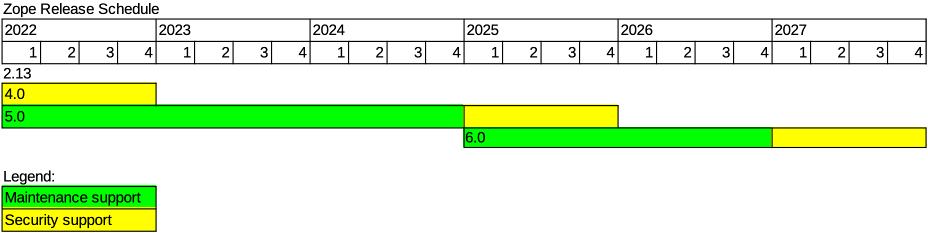
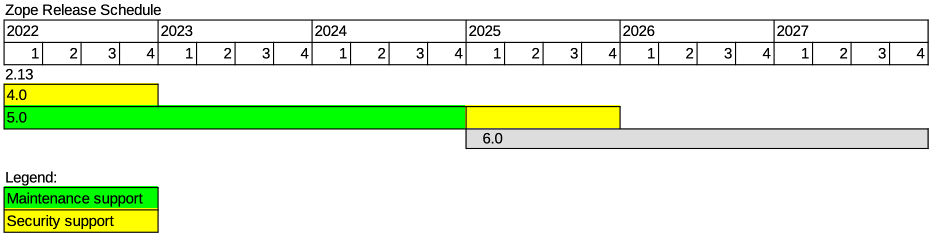
- clarify Zope 5 support timeframes

Changed region(s): [[0.0, 0.0, 1.0, 0.5408], [0.5, 0.5408, 1.0, 0.6609], [0.0, 0.721, 0.1875, 1.0]]

diff --git a/docs/releases.rst b/docs/releases.rst
@@ -1,7 +1,7 @@
 Zope release schedule
 =====================
 
-The Zope development and support roadmap. **Last updated: September 2023**
+The Zope development and support roadmap. **Last updated: January 2024**
 
 If you use Plone, please visit the `Plone release schedule
 <https://plone.org/download/release-schedule>`_ for all Plone-specific details.
@@ -14,8 +14,17 @@ Zope currently has two release managers, Michael Howitz and Jens Vagelpohl.
    :local:
    :depth: 1
 
+
 Support schedule
 ----------------
+
+.. note::
+
+    The end dates for Zope 5 maintenance and security support represent the
+    **earliest dates** for ending support **after Zope 6 is released**. There
+    are no firm plans for a Zope 6 release at this time, which means Zope 5
+    will be supported longer than stated here.
+
 
 .. image:: /_static/releases.png
 
@@ -31,8 +40,7 @@ Support schedule
 |5.0   |5.9    |3.7-3.12     |maintenance|2020-10-08|2024-12-31  |2025-12-31  |
 |      |       |[1]_ [2]_    |           |          |[3]_        |[3]_        |
 +------+-------+-------------+-----------+----------+------------+------------+
-|6.0   |\-     |TBD          |unreleased |TBD [4]_  |2026-12-31  |2027-12-31  |
-|      |       |             |           |          |[5]_        |[5]_        |
+|6.0   |\-     |TBD          |unreleased |TBD [4]_  |TBD [4]_    | TBD [4]_   |
 +------+-------+-------------+-----------+----------+------------+------------+
 
 .. [1] Python 3.10 support added with release 5.4.
@@ -41,16 +49,16 @@ Support schedule
 
 .. [2] Python 3.6 support removed with release 5.8.
 
-.. [3] Tentative: Final support deadlines for the Zope 5 series will be set
-       when Zope 6 is released. Zope 5 will enjoy full maintenance support at
-       least until Zope 6 is released and Security support for at least one year
-       after that.
+.. [3] Tentative **minimum** support duration and subject to change/extension:
+       Final support deadlines for the Zope 5 series will be set when Zope 6 is
+       released. Zope 5 will enjoy full maintenance support at least until
+       Zope 6 is released and Security support for at least one year after
+       that.
 
-.. [4] There is no release date for Zope 6 yet because there hasn't been any
-       backwards-incompatible changes warranting a new major release yet.
+.. [4] There are no set plans for a Zope 6 release yet. Final support periods
+       for both Zope 5 and Zope 6 will be set once Zope 6 is released and
+       follow the `Maintenance policy` guidelines shown below.
 
-.. [5] Purely speculative and subject to change after a release date has been
-       set for Zope 6.
 
 Definitions
 -----------
@@ -64,6 +72,7 @@ On this page, we use these terms:
 - *Minor* version: 4.5, 5.7
 - *Bugfix* version: 4.4.1, 5.6.1
 
+
 Release cadence
 ---------------
 This is the expected release cadence for Zope:
@@ -72,6 +81,7 @@ This is the expected release cadence for Zope:
 - We aim to release a new major version roughly every 2-3 years.
 - Planning for a new minor or major version usually starts after a release has
   been done. Currently, there is no clear calendar with expected dates.
+
 
 Maintenance policy
 ------------------
@@ -84,6 +94,7 @@ These are the general rules for maintenance support for Zope:
 - If a new major release is published after the two year maintenance support
   window, the previous release series may be downgraded to Security support
   soon thereafter.
+
 
 Security policy
 ---------------
